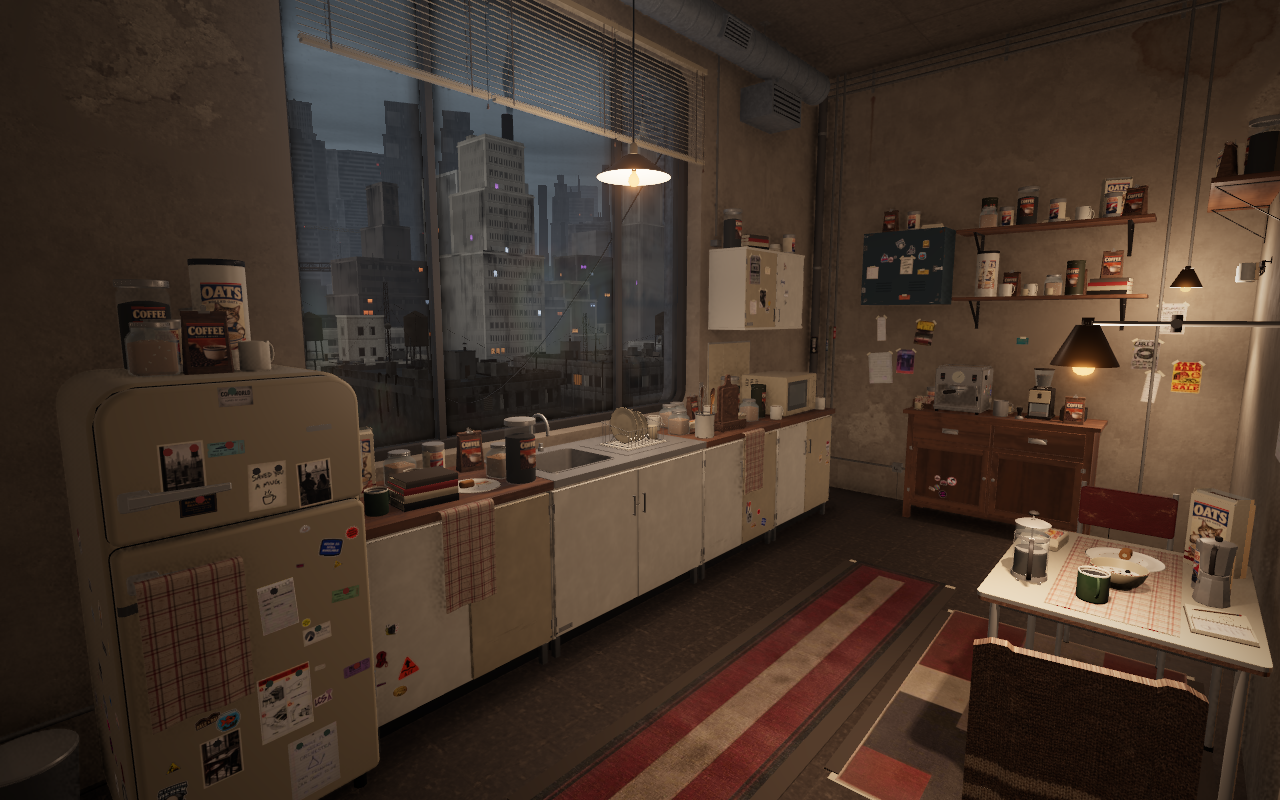
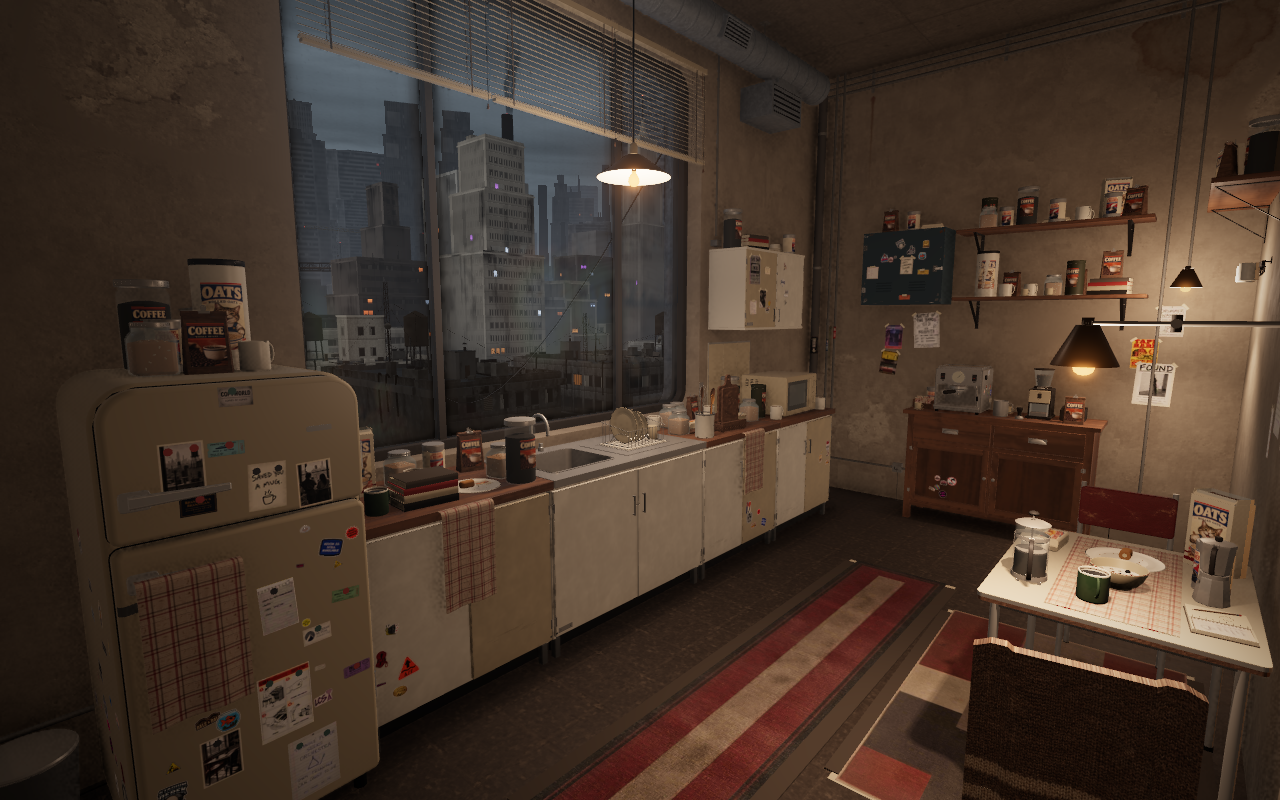
kitchen review: music flyers and daily paper groups

diff --git a/concepts/kitchen-comfort-2026-10-09/index.html b/concepts/kitchen-comfort-2026-10-09/index.html
@@ -26,12 +26,13 @@
   <p>Vibe collected and repaired this room herself. These concepts add places to settle in, useful rescued storage, illustrated pantry packs and traces of two girls sharing their daily life.</p>
   <p class="hint">Placement rule for every direction: furnishings find suitable walls and floor space; loose items choose compatible worktops, dining surfaces, shelves and hooks. Changing the room layout must repack them onto the available surfaces. The pictures describe the mood and useful groups, rather than fixed object coordinates.</p>
   <div class="notice">
-    <p><strong>Matching the approved coffee hangout.</strong> The generated reference below remains the target. The actual room now has a varied shelf-stable pantry, illustrated packaging, salvaged cupboards, personal green mugs, plaid towels, a loose knitted throw and warm task lamps. The latest pass groups the pantry and counter supplies more closely, with varied depth and height and coffee bags resting on book piles. Six reused props join the automatic surface placement. The furniture stays in place; the wider concept match remains in progress. Warm kitchen lamps cast shadows beneath shelves and around the coffee gear. A more layered city outlook opens through the kitchen window. Nearby ordinary roofs are shorter, while the composed city landmarks remain. Taller reused oat tins sit among shorter mugs, jars, packets and books. The rescued cupboards retain soft repaint patches, chipped edges and repairs. The shared coffee press and jars retain clear glass. Four household photographs and two handwritten notes remain on compatible fridge and cupboard faces. The larger room composition and softness of the light are still being compared with the reference.</p>
+    <p><strong>Matching the approved coffee hangout.</strong> The generated reference below remains the target. The actual room now has a varied shelf-stable pantry, illustrated packaging, salvaged cupboards, personal green mugs, plaid towels, a loose knitted throw and warm task lamps. The latest pass gathers larger music flyers and daily papers beneath the dining prints and beside the coffee cupboard. The music prints hang a little higher, and sixteen sheets form more personal wall groups. Clear wall surfaces around the furniture choose their positions automatically. The wider concept match remains in progress. Warm kitchen lamps cast shadows beneath shelves and around the coffee gear. A more layered city outlook opens through the kitchen window. Nearby ordinary roofs are shorter, while the composed city landmarks remain. Taller reused oat tins sit among shorter mugs, jars, packets and books. The rescued cupboards retain soft repaint patches, chipped edges and repairs. The shared coffee press and jars retain clear glass. Four household photographs and two handwritten notes remain on compatible fridge and cupboard faces. The larger room composition and softness of the light are still being compared with the reference.</p>
     <p class="hint">Only shelf-stable food and drinks: oats, coffee, powdered non-dairy creamer, sugar and long-life cakes. No plants. Loose items choose compatible surfaces and reshuffle after furniture edits. The cloth shares the existing print atlas. Cupboard paint reuses the small shared finish atlas.</p>
     <p><a href="https://lcs-rooms.up.railway.app/?t=19">Open the live kitchen</a> · <a href="../../props/?item=coffee-mug-green">Inspect the catalog models</a></p>
   </div>
   <nav aria-label="Concept directions">
     <a href="#progress">Latest 3D progress</a>
+    <a href="#paper-wall">Music and paper wall</a>
     <a href="#pantry-clusters">Pantry clusters</a>
     <a href="#loose-blanket">Looser chair throw</a>
     <a href="#quiet-cloth">Quieter cloth</a>
@@ -55,8 +56,8 @@
     <h2>Reference and current 3D progress</h2>
     <p>The room is being judged against this picture. Finished asset counts and the automatic comfort score do not measure the visual match.</p>
     <figure><a href="approved-target.png"><img src="approved-target.png" alt="Approved makeshift coffee kitchen reference with crowded pantry shelves, plaid towels, a knitted chair drape, personal papers and warm shaded lamps." width="1280" height="800" fetchpriority="high"></a><figcaption>Approved target · generated concept art.</figcaption></figure>
-    <figure><a href="progress-a.png?v=f8c8cfc"><img src="progress-a.png?v=f8c8cfc" alt="Current native 3D kitchen with varied glass jars, oats, creamer, coffee bags and empty mugs, warm task lights, plaid towels and a loose knitted chair throw." width="1280" height="800" loading="lazy"></a><figcaption>Current 3D implementation · entrance view · a clearer city outlook, taller mixed pantry stock, repaired cupboards, plaid cloth, household photographs and shared coffee.</figcaption></figure>
-    <figure><a href="progress-b.png?v=f8c8cfc"><img src="progress-b.png?v=f8c8cfc" alt="Current opposing native 3D kitchen view with illustrated pantry supplies, a shaded table lamp, plaid runner and repaired mismatched chairs." width="1280" height="800" loading="lazy"></a><figcaption>Current 3D implementation · opposing view.</figcaption></figure>
+    <figure><a href="progress-a.png?v=8802881"><img src="progress-a.png?v=8802881" alt="Current native 3D kitchen with varied glass jars, oats, creamer, coffee bags and empty mugs, warm task lights, plaid towels and a loose knitted chair throw." width="1280" height="800" loading="lazy"></a><figcaption>Current 3D implementation · entrance view · a clearer city outlook, taller mixed pantry stock, repaired cupboards, plaid cloth, household photographs and shared coffee.</figcaption></figure>
+    <figure><a href="progress-b.png?v=8802881"><img src="progress-b.png?v=8802881" alt="Current opposing native 3D kitchen view with illustrated pantry supplies, a shaded table lamp, plaid runner and repaired mismatched chairs." width="1280" height="800" loading="lazy"></a><figcaption>Current 3D implementation · opposing view.</figcaption></figure>
     <p class="hint">The window retains its width, sill height, saved rounded corners and mullions, and now reaches higher toward the ceiling. Its blinds follow the opening. The existing city remains. The furniture faces and cloth still look simpler than the generated reference. The shelves have taller mixed stock, and the cupboard doors show gentle repaint variation. Native pictures at noon, dusk and night have a clear doorway, no waiting surface inventory and no missing prop models.</p>
     <h3>Medium quality · daylight correction</h3>
     <p>The same room, camera and noon setting before and after the latest correction. The existing reflected daylight field now reaches the kitchen more clearly. A changed layout that gives this room a direct window light disables the fallback automatically.</p>
@@ -64,6 +65,18 @@
     <figure><a href="daylight-medium-after.png?v=f78fb4d"><img src="daylight-medium-after.png?v=f78fb4d" alt="Deployed kitchen with clearer cool daylight on the cupboard fronts and warm local lamps at noon on medium quality." width="1280" height="800" loading="lazy"></a><figcaption>After · deployed 3D room · medium quality, noon · same camera and furniture.</figcaption></figure>
     <p class="hint">No extra lights or textures. The dusk pictures above use high quality; this pair shows the medium-tier daytime correction.</p>
   </section>
+  <section id="paper-wall">
+    <h2>Music flyers and daily papers over the table</h2>
+    <p>The music prints hang higher, leaving room for full-size flyers, receipts and daily notes beneath them. Papers also gather beside the coffee cupboard. These groups choose clear wall surfaces around the furniture and reshape when the table moves. The same cameras show the actual before-and-after room.</p>
+    <figure><a href="paper-wall-detail-before.png?v=8802881"><img src="paper-wall-detail-before.png?v=8802881" alt="Dining wall close up · before, native room preview." width="1280" height="800" loading="lazy"></a><figcaption>Dining wall close up · before, native room preview.</figcaption></figure>
+    <figure><a href="paper-wall-detail-after.png?v=8802881"><img src="paper-wall-detail-after.png?v=8802881" alt="Dining wall close up · after, actual deployed kitchen." width="1280" height="800" loading="lazy"></a><figcaption>Dining wall close up · after, actual deployed kitchen.</figcaption></figure>
+    <figure><a href="paper-wall-room-before.png?v=8802881"><img src="paper-wall-room-before.png?v=8802881" alt="Kitchen reference view · before, native room preview." width="1280" height="800" loading="lazy"></a><figcaption>Kitchen reference view · before, native room preview.</figcaption></figure>
+    <figure><a href="paper-wall-room-after.png?v=8802881"><img src="paper-wall-room-after.png?v=8802881" alt="Kitchen reference view · after, actual deployed kitchen." width="1280" height="800" loading="lazy"></a><figcaption>Kitchen reference view · after, actual deployed kitchen.</figcaption></figure>
+    <figure><a href="paper-wall-reverse-before.png?v=8802881"><img src="paper-wall-reverse-before.png?v=8802881" alt="Opposing kitchen view · before, native room preview." width="1280" height="800" loading="lazy"></a><figcaption>Opposing kitchen view · before, native room preview.</figcaption></figure>
+    <figure><a href="paper-wall-reverse-after.png?v=8802881"><img src="paper-wall-reverse-after.png?v=8802881" alt="Opposing kitchen view · after, actual deployed kitchen." width="1280" height="800" loading="lazy"></a><figcaption>Opposing kitchen view · after, actual deployed kitchen.</figcaption></figure>
+    <p class="hint">The existing artwork is reused, with no new textures. Posters, lamps, conduits and window openings remain clear. The window treatment and broader cupboard character are still being compared with the approved concept.</p>
+  </section>
+
   <section id="pantry-clusters">
     <h2>Pantry clusters and useful book piles</h2>
     <p>Taller supplies sit behind lower cups, and book piles break up the rows. Six reused props join the room, with coffee bags resting on real book covers. These actual before-and-after pictures share the same cameras. Furniture stays in place, and loose stock uses automatic surfaces that reshuffle when supports change.</p>
